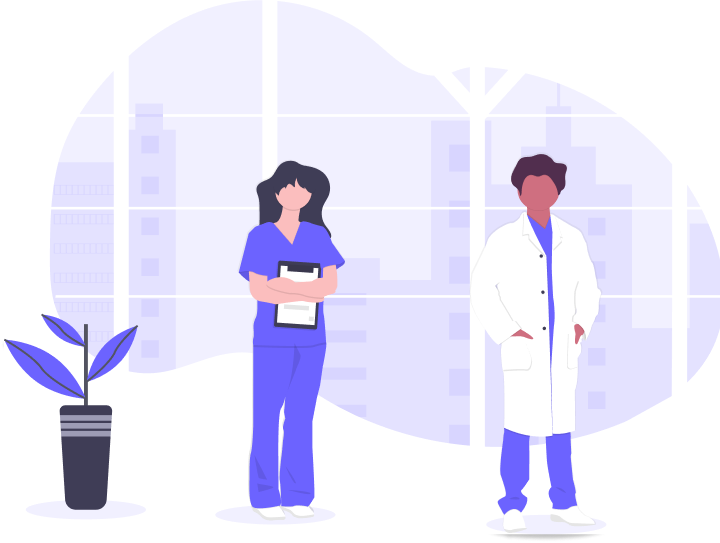
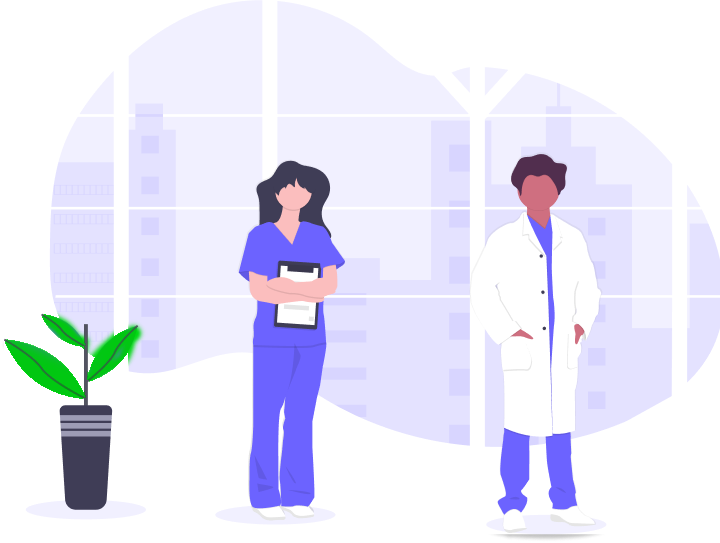
color-changed

Changed region(s): [[0.0, 0.5599, 0.2139, 0.7366]]

diff --git a/css/stylesheet.css b/css/stylesheet.css
@@ -23,7 +23,7 @@ body {
   display: flex;
   justify-content: center;
   align-items: center;
-  background-color: #d5e8fa;
+  background-color: #d5fad8;
   z-index: -20;
 }
 /* body */
@@ -81,7 +81,7 @@ body {
 .right {
   height: inherit;
   width: 50%;
-  background-color: #d5e8fa;
+  background-color: #d5fad8;;
   display: flex;
   flex-direction: column;
   justify-content: center;
@@ -131,7 +131,7 @@ body {
 .arrow {
   font-size: 15rem;
   margin-top: 2rem;
-  color: #00a8db;
+  color: #00db12;
 }
 /* ---------------------------sign up page--------------------------- */
 
@@ -148,7 +148,7 @@ body {
   padding: 1.2rem;
   margin-top: 2rem;
   font-size: 1.7rem;
-  background-color: #00a8db;
+  background-color: #00db12;
   border: none;
   border-radius: 0.5rem;
   color: #fff;
@@ -165,7 +165,7 @@ body {
 .yesorno {
   height: 1.8rem;
   width: 80%;
-  background-color: #00e3d5;
+  background-color: #00e39f;
   margin-left: auto;
   margin-right: auto;
   margin-bottom: 1rem;
@@ -177,7 +177,7 @@ body {
   position: absolute;
   height: inherit;
   width: 50%;
-  background-color: #00a8db;
+  background-color: #00db12;
   border-radius: 0.5rem;
   top: 0;
   left: 0;
@@ -191,7 +191,7 @@ body {
   position: absolute;
   height: inherit;
   width: 50%;
-  background-color: #00a8db;
+  background-color: #00db12;
   border-radius: 0.5rem;
   top: 0;
   right: 0;
@@ -228,7 +228,7 @@ body {
 }
 
 #yes:hover {
-  background-color: #00a8db;
+  background-color: #00db12;
 }
 
 #yes p {
@@ -253,7 +253,7 @@ body {
 }
 
 #no:hover {
-  background-color: #00a8db;
+  background-color: #00db12;
 }
 
 .no p {
@@ -300,7 +300,7 @@ body {
   font-family: "montserrat";
   margin-top: 1rem;
   margin-right: 0.5rem;
-  background-color: #00a8db;
+  background-color: #00db12;
   border: none;
   cursor: pointer;
   border-radius: 0.5rem;
@@ -309,7 +309,7 @@ body {
 
 .btn button:hover {
   background-color: rgb(241, 235, 235);
-  color: #00a8db;
+  color: #00db12;
 }
 
 .buttom p {

diff --git a/css/dashboard-template.css b/css/dashboard-template.css
@@ -33,7 +33,7 @@ img {
   width: 240px;
   padding: 0 0 0 20px;
   height: 100vh;
-  background: linear-gradient(#00e3d5, #00a8db);
+  background: linear-gradient(#00e3d5, #00db12);
   display: flex;
   flex-direction: column;
   position: fixed;
@@ -89,7 +89,7 @@ img {
 .side-nav-links li.active {
   border-radius: 15px 0 0 15px;
   background-color: white;
-  color: #00a8db;
+  color: #00db12;
   box-shadow: 2px 2px 5px rgba(0, 0, 0, 0.25);
 }
 .side-nav-links li.active:hover {
@@ -204,7 +204,7 @@ img {
   align-items: center;
   padding: 20px 30px;
   color: white;
-  background: linear-gradient(-90deg, #00e3d5, #00a8db);
+  background: linear-gradient(-90deg, #00e3d5, #00db12);
 }
 .welcome-admin h3 {
   font-size: 30px;
@@ -227,7 +227,7 @@ img {
   justify-content: center;
   align-items: center;
   border-radius: 10px;
-  background-color: #00a8db;
+  background-color: #00db12;
   color: white;
   font-weight: bold;
 }
@@ -267,7 +267,7 @@ img {
   width: 50%;
 }
 .doctors-block-header button {
-  background-color: #00a8db;
+  background-color: #00db12;
   width: 120px;
   height: 35px;
   color: white;
@@ -295,7 +295,7 @@ img {
   background-color: rgb(230, 0, 0);
 }
 .blue {
-  background-color: #00a8db;
+  background-color: #00db12;
 }
 
 /* -------MODAL-------- */
@@ -342,7 +342,7 @@ img {
   margin-top: 30px;
 }
 .edit-profile {
-  background-color: #00a8db;
+  background-color: #00db12;
   color: white;
   padding: 10px 15px;
   margin-right: 40px;
@@ -353,8 +353,8 @@ img {
 }
 .edit-profile:hover {
   background-color: transparent;
-  color: #00a8db;
-  border: 1px solid #00a8db;
+  color: #00db12;
+  border: 1px solid #00db12;
   cursor: pointer;
 }
 
@@ -383,7 +383,7 @@ img {
   height: 40px;
 }
 .tips-item button {
-  background-color: #00a8db;
+  background-color: #00db12;
   color: white;
   display: block;
   width: 100px;

diff --git a/css/styles.css b/css/styles.css
@@ -18,7 +18,7 @@ html{
 header{
   height: 80px;
   width: 100%;
-  background-color: #00A8DB;
+  background-color: #00db12;
   padding: 0 5%;
   margin: 0 auto;
   display: flex;
@@ -39,7 +39,7 @@ img {
 .btn{
   padding: 0.7rem 1.8rem;
   font-size: 1.8rem;
-  color: #00A8DB;
+  color:#00db12;
   background-color: #fff;
   border: none;
   border-radius: 0.5rem;
@@ -86,7 +86,7 @@ img {
 
 .heroleft a button{
   padding: 1rem 1.5rem;
-  background-color: #00A8DB;
+  background-color: #00db12;
   border: none;
   font-size: 2rem;
   color: #fff;
@@ -134,7 +134,7 @@ img {
 }
 
 .help{
-  color: #00A8DB;
+  color: #00db12;
 }
 
 .quality-system-content{
@@ -214,7 +214,7 @@ img {
   text-transform: uppercase;
   color: #fff;
   font-family: 'inter';
-  background-color: #00A8DB;
+  background-color: #00db12;
   border: none;
   border-radius: 0.7rem;
   font-size: 1.2rem;
@@ -258,7 +258,7 @@ img {
 .get-in-touch a button{
   padding: 0.9rem;
   width: 25rem;
-  background-color: #00A8DB;
+  background-color: #00db12;
   border: none;
   color: #fff;
   text-transform: uppercase;

diff --git a/css/patient-dashboard.css b/css/patient-dashboard.css
@@ -106,13 +106,13 @@ height: auto;
   font-weight: bold;
 }
 .fa-hospital{
-  color: #00A8DB;
+  color: #00db12;
 }
 .new-appointments{
   height: 60px;
   width: 200px;
   display: flex;
-  background-color: #00a8db;
+  background-color: #00db12;
   color: aliceblue;
   align-items: center;
   justify-content: center;
@@ -196,7 +196,7 @@ table th:last-child {
 
 .view-all {
   padding: 5px;
-  background-color: #00a8db;
+  background-color: #00db12;
   color: white;
   border: none;
   border-radius: 4px;
@@ -204,7 +204,7 @@ table th:last-child {
 }
 
 button.afterTable{
-  background-color: #00A8DB;
+  background-color: #00db12;
   color: #fff;
   padding: 7px;
   width: 100px;

diff --git a/css/appointments.css b/css/appointments.css
@@ -1,12 +1,12 @@
 .top-nav i.fa-cog, .top-nav i.fa-bell{
-  color: #00A8DB;
+  color: #00db12;
 }
 
   button.new-appointments{
     height: 40px;
     width: 180px;
     display: flex;
-    background-color: #00a8db;
+    background-color: #00db12;
     color: aliceblue;
     align-items: center;
     cursor: pointer;
@@ -73,7 +73,7 @@
   }
 
   table thead{
-    background-color: #00DED6;
+    background-color: #00dea3;
     color: #fff;
     height: 50px;
     

diff --git a/css/patient-profile.css b/css/patient-profile.css
@@ -79,7 +79,7 @@ label {
     width: 100%;
     height: 40px;
     border: 0;
-    background-color: #00a8db;
+    background-color:#00db12;
     color: white;
     font-weight: bold;
     margin-top: 30px;
@@ -87,8 +87,8 @@ label {
 .submit-form:hover {
     cursor: pointer;
     background-color: transparent;
-    border: 1px solid #00a8db;
-    color: #00a8db;
+    border: 1px solid #00db12;
+    color: #00db12;
 }
 .form-title {
     display: flex;

diff --git a/css/doctors-dashboard.css b/css/doctors-dashboard.css
@@ -1,5 +1,5 @@
 .top-nav i.fa-cog,.top-nav i.fa-bell{
-  color: #00A8DB;
+  color: #00db12;
 }
 .greet{
   display: flex;
@@ -77,7 +77,7 @@ div.cards{
   }
 
   button.afterTable{
-    background-color: #00A8DB;
+    background-color: #00db12;
     color: #fff;
     padding: 7px;
     width: 100px;

diff --git a/css/admin-dashboard.css b/css/admin-dashboard.css
@@ -118,7 +118,7 @@ tr:nth-child(even) {
 
 .dashViewBtn {
   padding: 5px;
-  background-color: #00a8db;
+  background-color: #00db12;
   color: white;
   border: none;
   border-radius: 4px;

diff --git a/css/settings.css b/css/settings.css
@@ -22,7 +22,7 @@ td {
 
 td i {
   padding-left: 20px;
-  color: #00a8db;
+  color: #00db12;
 }
 .switch {
   position: relative;

diff --git a/css/notifications.css b/css/notifications.css
@@ -23,7 +23,7 @@ td {
 
 td i {
   padding-left: 10px;
-  color: #00a8db;
+  color: #00db12;
 }
 .fa-2x {
   font-size: 18px;
